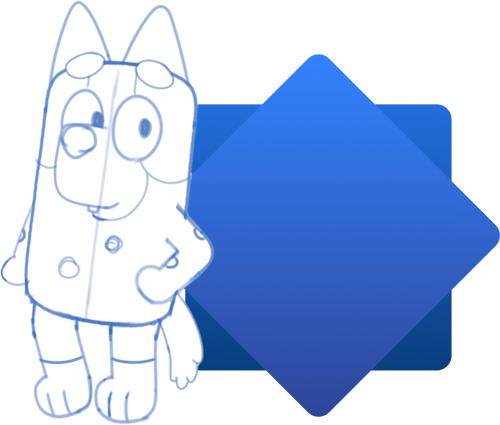
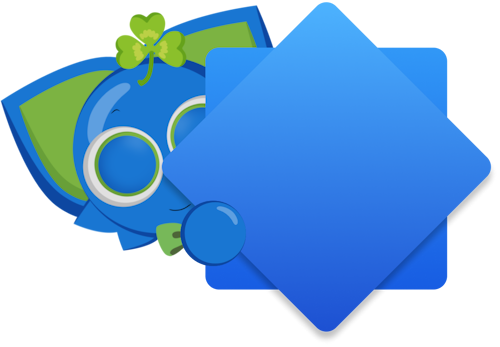
replace chaz heeler with cleber emojicat + misc stuff idk

diff --git a/private/pages/settings.php b/private/pages/settings.php
@@ -14,16 +14,18 @@ if (!$auth->isUserLoggedIn())
 }
 
 // we shouldn't let banned users change settings.
-/*
 if ($auth->getUserBanData()) {
-    $orange->Notification("You cannot proceed with this action.", "/");
+    UnorganizedFunctions::Notification("You cannot proceed with this action.", "/");
 }
-*/
 
 if (isset($_POST['save'])) {
     global $auth, $storage;
 
     $title = htmlspecialchars($_POST['title']) ?? null;
+
+    // if display name is set to empty, fallback to our current username.
+    $title = trim($title) === '' ? $auth->getUserData()["name"] : $title;
+
     $about = $_POST['about'] ?? null;
 
     $currentPass = ($_POST['current_pass'] ?? null);
@@ -59,8 +61,8 @@ if (isset($_POST['save'])) {
             $error .= "Your current password is incorrect.";
         }
     }
-    
-    if (strlen($title) > 80) {
+
+    if (strlen($title) > 100) {
         $error .= "Your display name is too long.";
     }
 

diff --git a/private/class/SquareBracket/SquareBracket.php b/private/class/SquareBracket/SquareBracket.php
@@ -13,7 +13,7 @@ class SquareBracket {
     private string $accounts_cookie_warning = "DO-NOT-SHARE-THIS-WITH-ANYONE-";
 
     /**
-     * Initialize core SquareBracket classes.
+     * Initialize core SquareBracket classes. (this is fucking stupid)
      *
      * @since SquareBracket 1.0
      */
@@ -35,10 +35,8 @@ class SquareBracket {
             // NOTE: dont add any more default options.
 
             $defaultSkin = "biscuit";
-            // if we're on chaziz mode, opt 50% of first-time users into charla.
             if ($isChazizSB) {
-                $randomNumber = rand(1, 2);
-                $defaultSkin = ($randomNumber === 1) ? "charla" : "biscuit";
+                $defaultSkin = "charla";
             }
 
             $this->options = [
